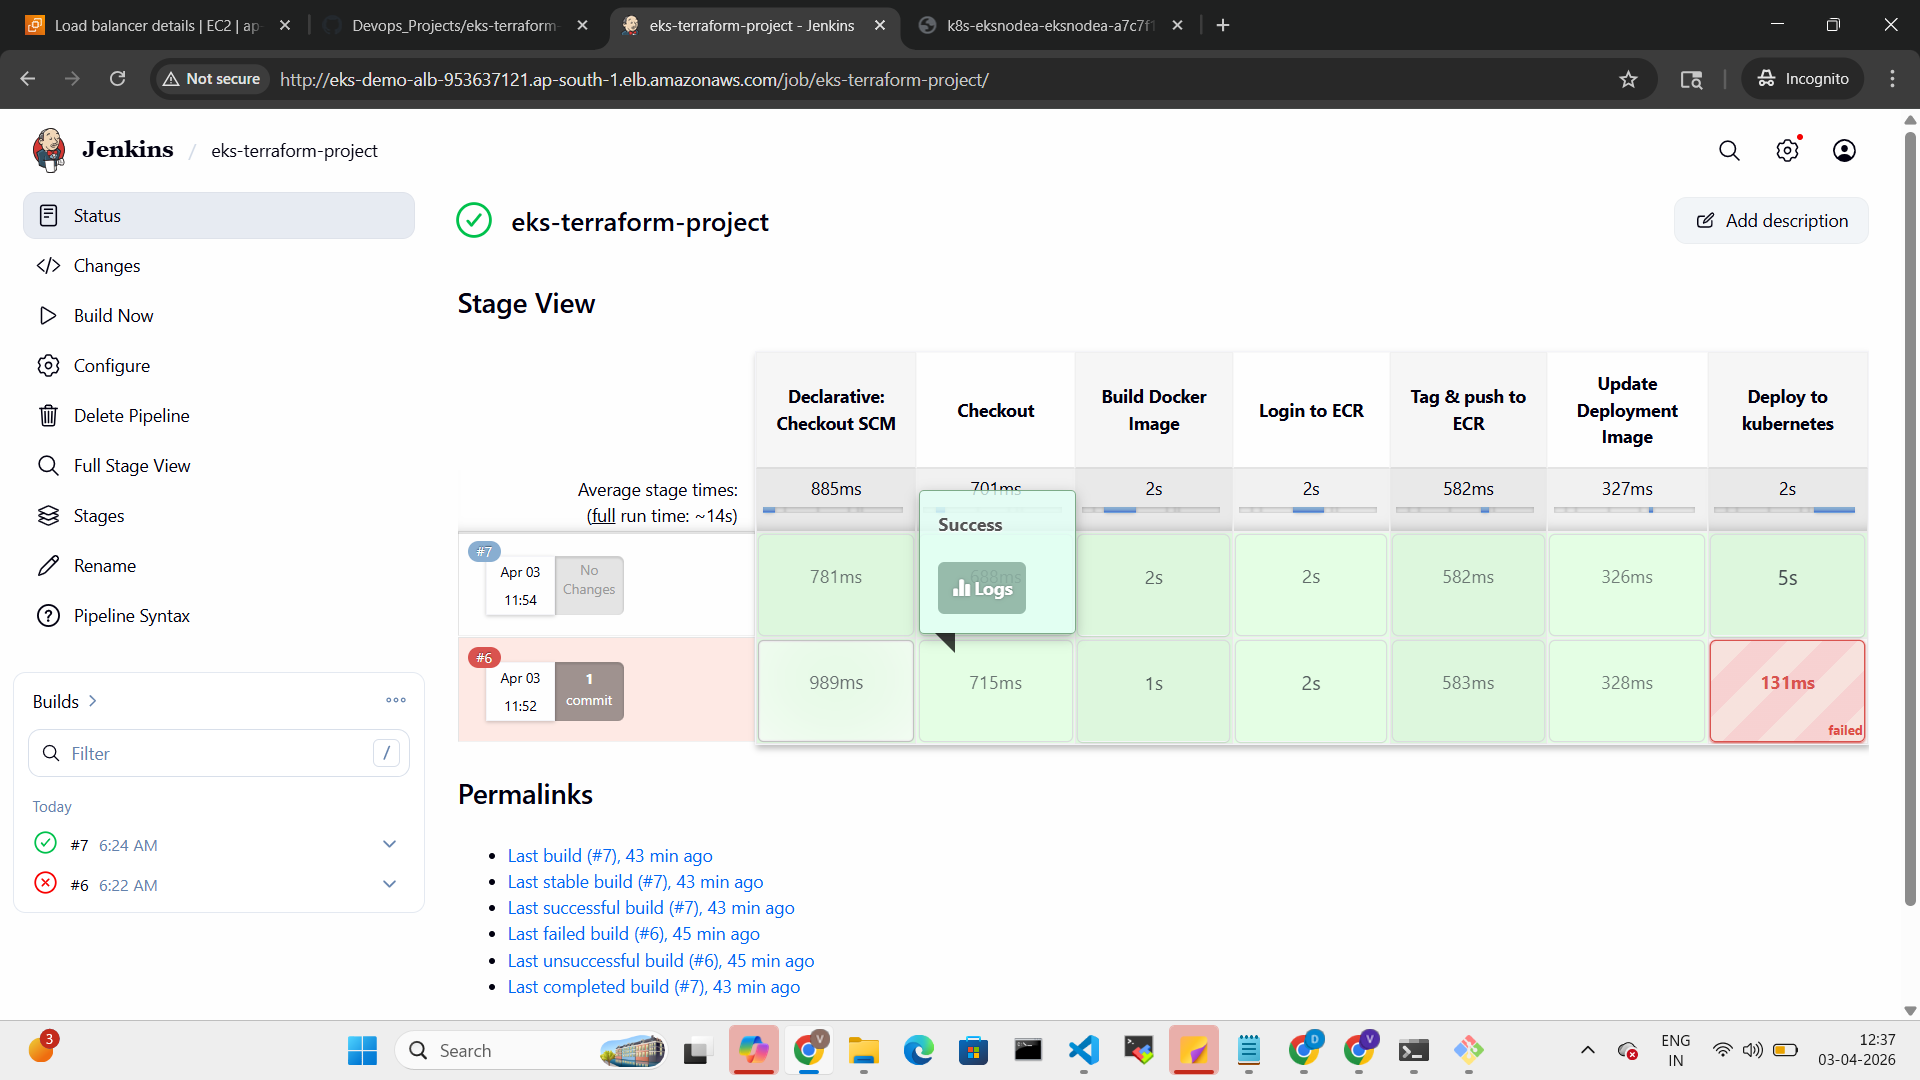
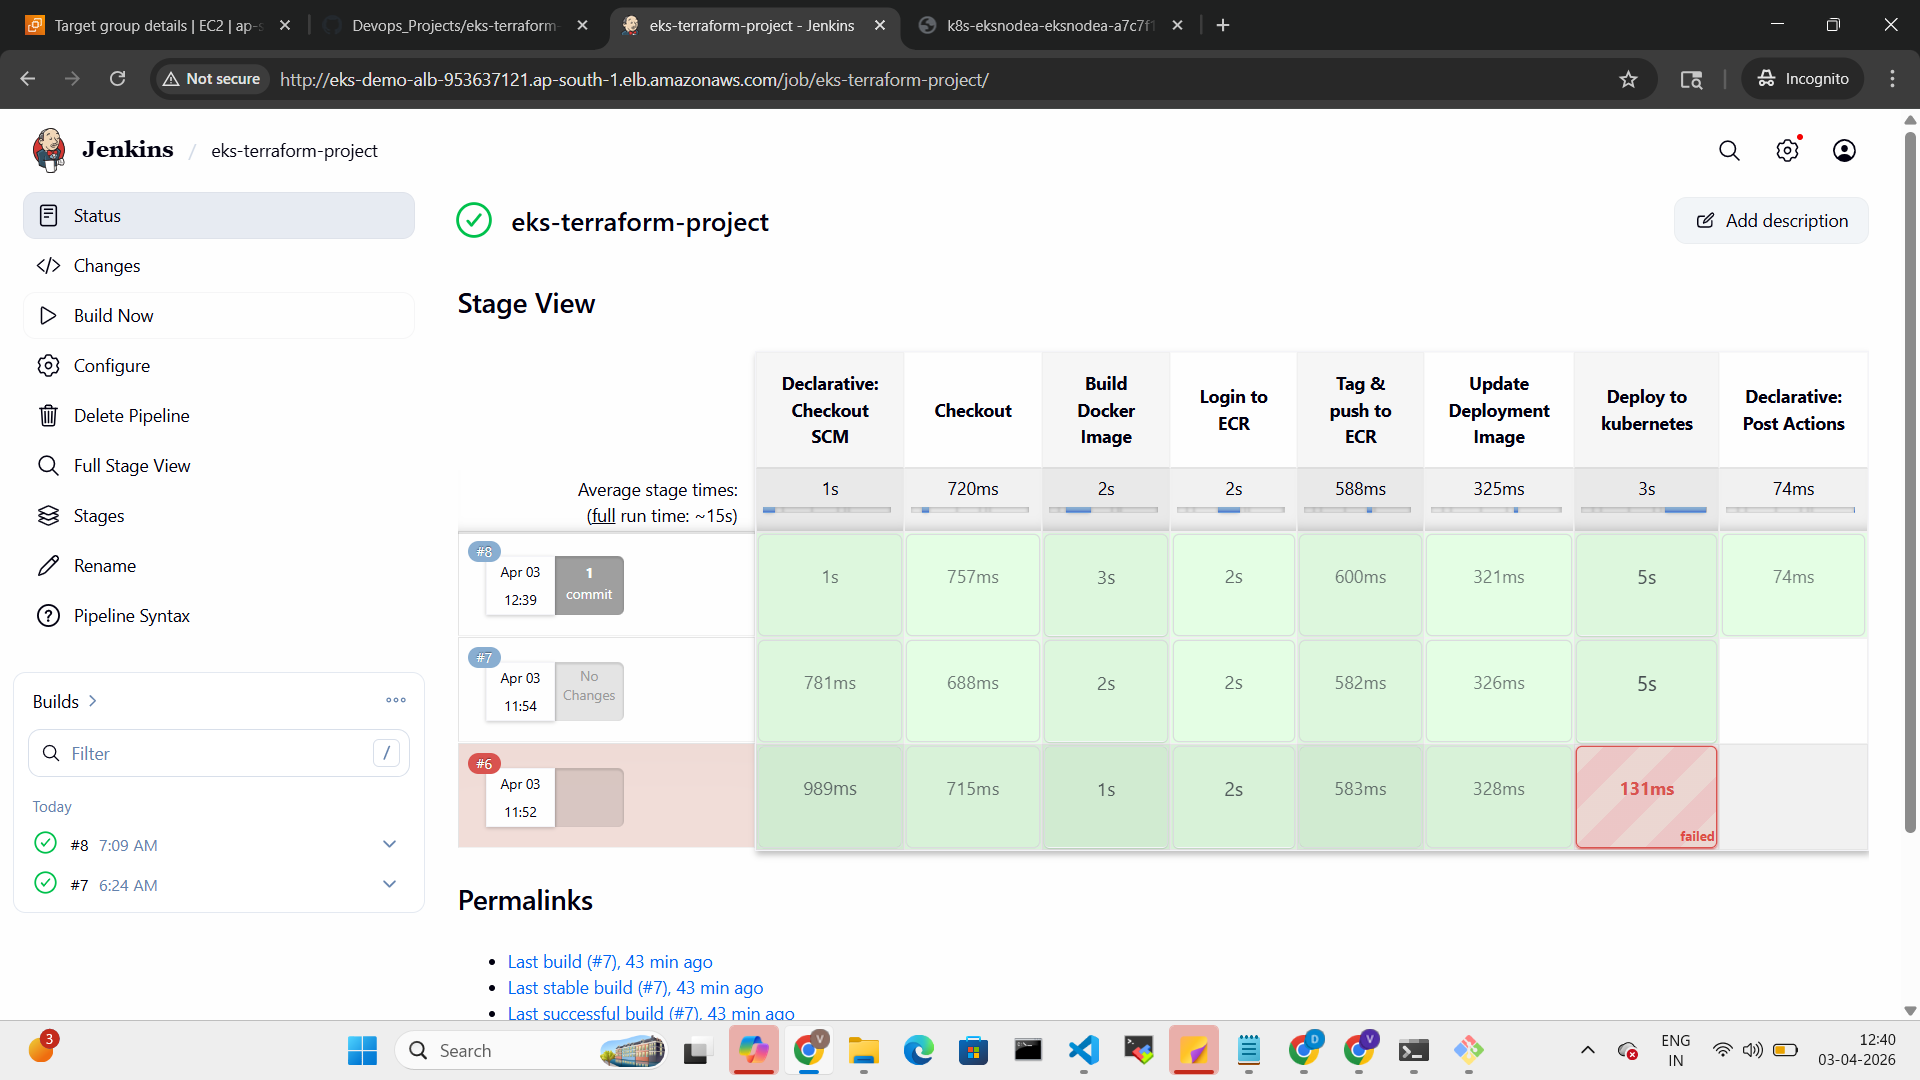
Readme

diff --git a/eks-terraform-project/README.md b/eks-terraform-project/README.md
@@ -1,0 +1,267 @@
+# EKS CI/CD Pipeline with Terraform & Jenkins
+
+![Jenkins](https://img.shields.io/badge/Jenkins-D24939?style=for-the-badge&logo=jenkins&logoColor=white)
+![Terraform](https://img.shields.io/badge/Terraform-7B42BC?style=for-the-badge&logo=terraform&logoColor=white)
+![AWS](https://img.shields.io/badge/AWS-FF9900?style=for-the-badge&logo=amazonaws&logoColor=white)
+![Kubernetes](https://img.shields.io/badge/Kubernetes-326CE5?style=for-the-badge&logo=kubernetes&logoColor=white)
+![Docker](https://img.shields.io/badge/Docker-2496ED?style=for-the-badge&logo=docker&logoColor=white)
+
+A production-grade CI/CD pipeline that automatically builds, pushes, and deploys a Node.js application to Amazon EKS using Jenkins, Docker, ECR, and Terraform-provisioned infrastructure.
+
+---
+
+## Architecture Overview
+
+```
+Developer pushes code to GitHub
+            ↓
+    Jenkins Pipeline triggers
+            ↓
+  Docker build → ECR push (ap-south-1)
+            ↓
+  kubectl apply → Amazon EKS
+            ↓
+  AWS Load Balancer Controller (IRSA)
+            ↓
+  Public endpoint via AWS ALB/ELB
+```
+
+---
+
+## Project Structure
+
+```
+Devops_Projects/eks-terraform-project/
+├── app/                        # Node.js application
+│   ├── server.js
+│   ├── package.json
+│   └── Dockerfile
+├── cicd/
+│   └── Jenkinsfile             # CI/CD pipeline definition
+├── infra/                      # Terraform IaC
+│   ├── main.tf
+│   ├── variables.tf
+│   ├── outputs.tf
+│   ├── versions.tf
+│   └── modules/
+│       ├── vpc/                # VPC, subnets, IGW, NAT
+│       ├── eks/                # EKS cluster
+│       └── node-groups/        # EKS managed node groups
+└── k8s/
+    └── base/                   # Kubernetes manifests
+        ├── namespace.yaml
+        ├── deployment.yaml
+        ├── service.yaml
+        ├── configmap.yaml
+        └── hpa.yaml
+```
+
+---
+
+## Tech Stack
+
+| Category | Tools |
+|---|---|
+| Infrastructure | Terraform, AWS EKS, VPC, ECR, ALB |
+| CI/CD | Jenkins (on EC2 via SSM) |
+| Containerization | Docker, Amazon ECR |
+| Orchestration | Kubernetes (EKS), kubectl |
+| Security | IRSA, IAM Roles, SSM Session Manager |
+| Monitoring | HPA (Horizontal Pod Autoscaler) |
+| App | Node.js 18 (Alpine) |
+
+---
+
+## Infrastructure (Terraform)
+
+Provisioned using modular Terraform with remote state backend:
+
+- **VPC** — Custom VPC with public/private subnets across 2 AZs
+- **EKS Cluster** — `eks-terraform-project-demo-dev` in `ap-south-1`
+- **Node Groups** — Managed node groups with auto-scaling
+- **Remote State** — S3 backend with DynamoDB locking
+
+```hcl
+# Remote state config
+terraform {
+  backend "s3" {
+    bucket         = "<your-state-bucket>"
+    key            = "eks-terraform-project/terraform.tfstate"
+    region         = "ap-south-1"
+    dynamodb_table = "<your-lock-table>"
+  }
+}
+```
+
+---
+
+## CI/CD Pipeline
+
+The Jenkins pipeline runs on every code change and executes these stages:
+
+```
+Checkout → Build Docker Image → Login to ECR → Tag & Push to ECR
+        → Update Deployment Image → Deploy to Kubernetes
+```
+
+### Pipeline Stages
+
+| Stage | Description | Time |
+|---|---|---|
+| Checkout | Pull latest code from GitHub | ~1s |
+| Build Docker Image | Multi-stage Docker build | ~3s (cached) |
+| Login to ECR | Authenticate with AWS ECR | ~2s |
+| Tag & Push to ECR | Push image with build number tag | ~2s |
+| Update Deployment Image | Inject image tag into manifest | <1s |
+| Deploy to Kubernetes | kubectl apply to EKS | ~5s |
+
+### Image Tagging Strategy
+Images are tagged with build number: `v1.${BUILD_NUMBER}`
+```
+911319296463.dkr.ecr.ap-south-1.amazonaws.com/varshita5233/ecr-eks-repo:v1.8
+```
+
+---
+
+## AWS Load Balancer Controller Setup
+
+The LBC was configured with **IRSA (IAM Roles for Service Accounts)** for secure, credential-free AWS API access:
+
+1. **OIDC Provider** registered for the EKS cluster
+2. **IAM Role** with trust policy scoped to the LBC service account
+3. **Kubernetes SA** annotated with the IAM role ARN
+4. **LBC installed via Helm** with `serviceAccount.create=false`
+
+```bash
+# IRSA annotation on ServiceAccount
+eks.amazonaws.com/role-arn: arn:aws:iam::911319296463:role/AmazonEKSLoadBalancerControllerRole
+```
+
+---
+
+## Kubernetes Resources
+
+### Deployment
+- **Replicas:** 2
+- **Image:** Pulled from ECR, updated on every pipeline run
+- **Health Checks:** Liveness and readiness probes on `/`
+- **Config:** Environment variables injected via ConfigMap
+
+### Service
+- **Type:** LoadBalancer
+- **Port:** 80 → Container 3000
+- **Scheme:** internet-facing (via LBC annotation)
+
+### HPA (Horizontal Pod Autoscaler)
+- Automatically scales pods based on CPU utilization
+- Min replicas: 2, Max replicas: configurable
+
+---
+
+## Prerequisites
+
+- AWS CLI configured with appropriate permissions
+- `kubectl` installed
+- `terraform` >= 1.5
+- `helm` >= 3.x
+- `docker` installed
+- Jenkins with required plugins:
+  - Kubernetes CLI
+  - Git
+  - Pipeline
+
+---
+
+## Deployment Guide
+
+### 1. Provision Infrastructure
+```bash
+cd infra/
+terraform init
+terraform plan
+terraform apply
+```
+
+### 2. Configure kubectl
+```bash
+aws eks update-kubeconfig \
+  --region ap-south-1 \
+  --name eks-terraform-project-demo-dev
+```
+
+### 3. Install AWS Load Balancer Controller
+```bash
+helm repo add eks https://aws.github.io/eks-charts
+helm repo update
+
+helm install aws-load-balancer-controller eks/aws-load-balancer-controller \
+  -n kube-system \
+  --set clusterName=eks-terraform-project-demo-dev \
+  --set serviceAccount.create=false \
+  --set serviceAccount.name=aws-load-balancer-controller \
+  --set region=ap-south-1 \
+  --set vpcId=<YOUR_VPC_ID>
+```
+
+### 4. Configure Jenkins Pipeline
+- Add repo URL: `https://github.com/Varshita5233/Devops_Projects.git`
+- Branch: `*/main`
+- Script Path: `eks-terraform-project/cicd/Jenkinsfile`
+
+### 5. Run Pipeline
+Click **Build Now** in Jenkins or push a commit to trigger automatically.
+
+---
+
+## Live Demo
+
+Application is accessible at:
+```
+http://k8s-eksnodea-eksnodea-a7c7f1fd58-4cdeb8ddcd1a6667.elb.ap-south-1.amazonaws.com
+```
+
+Sample response:
+```json
+{
+  "message": "Hello from EKS! 🚀",
+  "environment": "production",
+  "version": "1.0.0",
+  "hostname": "eks-node-app-66749cf4d-z4x5t",
+  "timestamp": "2026-04-03T05:01:51.129Z"
+}
+```
+
+---
+
+## Security Highlights
+
+- Jenkins EC2 accessed exclusively via **AWS SSM Session Manager** (no SSH, no public IP)
+- **IRSA** used for LBC — no static AWS credentials in pods
+- **Least-privilege IAM** — Jenkins role has only required permissions
+- ECR images scanned with **Trivy** in pipeline
+- Node groups in **private subnets** only
+
+---
+
+## Key Learnings & Challenges
+
+- Configured IRSA from scratch without `eksctl` using AWS CLI and manual trust policy creation
+- Debugged LBC `FailedBuildModel` errors — root cause was missing IRSA annotation and incomplete RBAC ClusterRole
+- Resolved Jenkins `/tmp` disk threshold issue blocking node from coming online
+- Fixed annotation typo in service manifest (`serice` → `service`)
+
+---
+
+## Author
+
+**Varshita Rajana**
+- GitHub: [@Varshita5233](https://github.com/Varshita5233)
+- LinkedIn: [linkedin.com/in/varshita-rajana](https://linkedin.com/in/varshita-rajana)
+
+---
+
+## Certifications
+
+- HashiCorp Certified: Terraform Associate (004) — March 2026
+- AWS Certified Cloud Practitioner — April 2023
+- GitHub Foundations — May 2025
